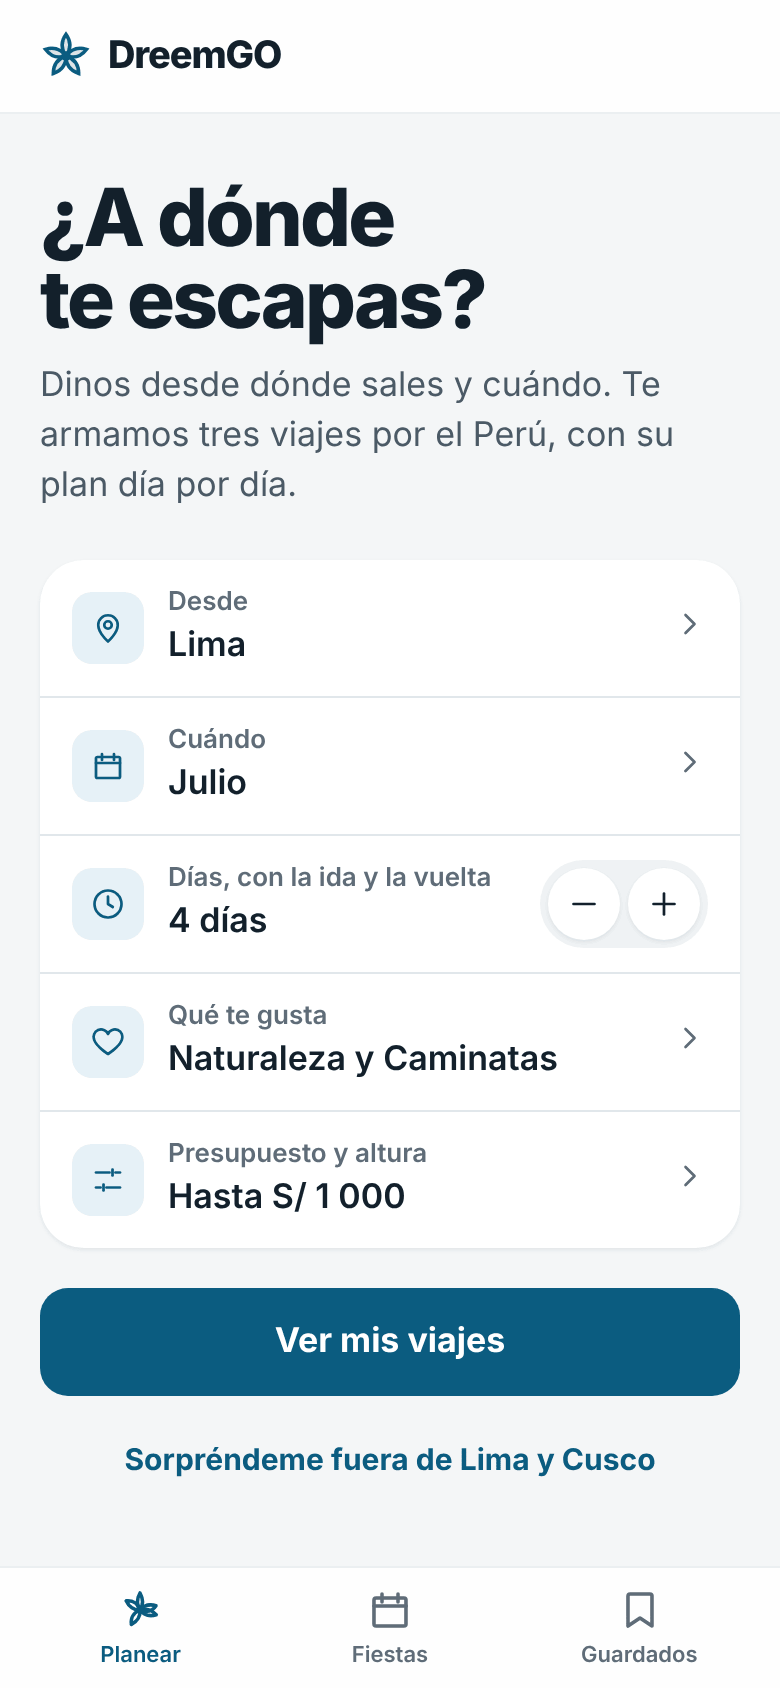
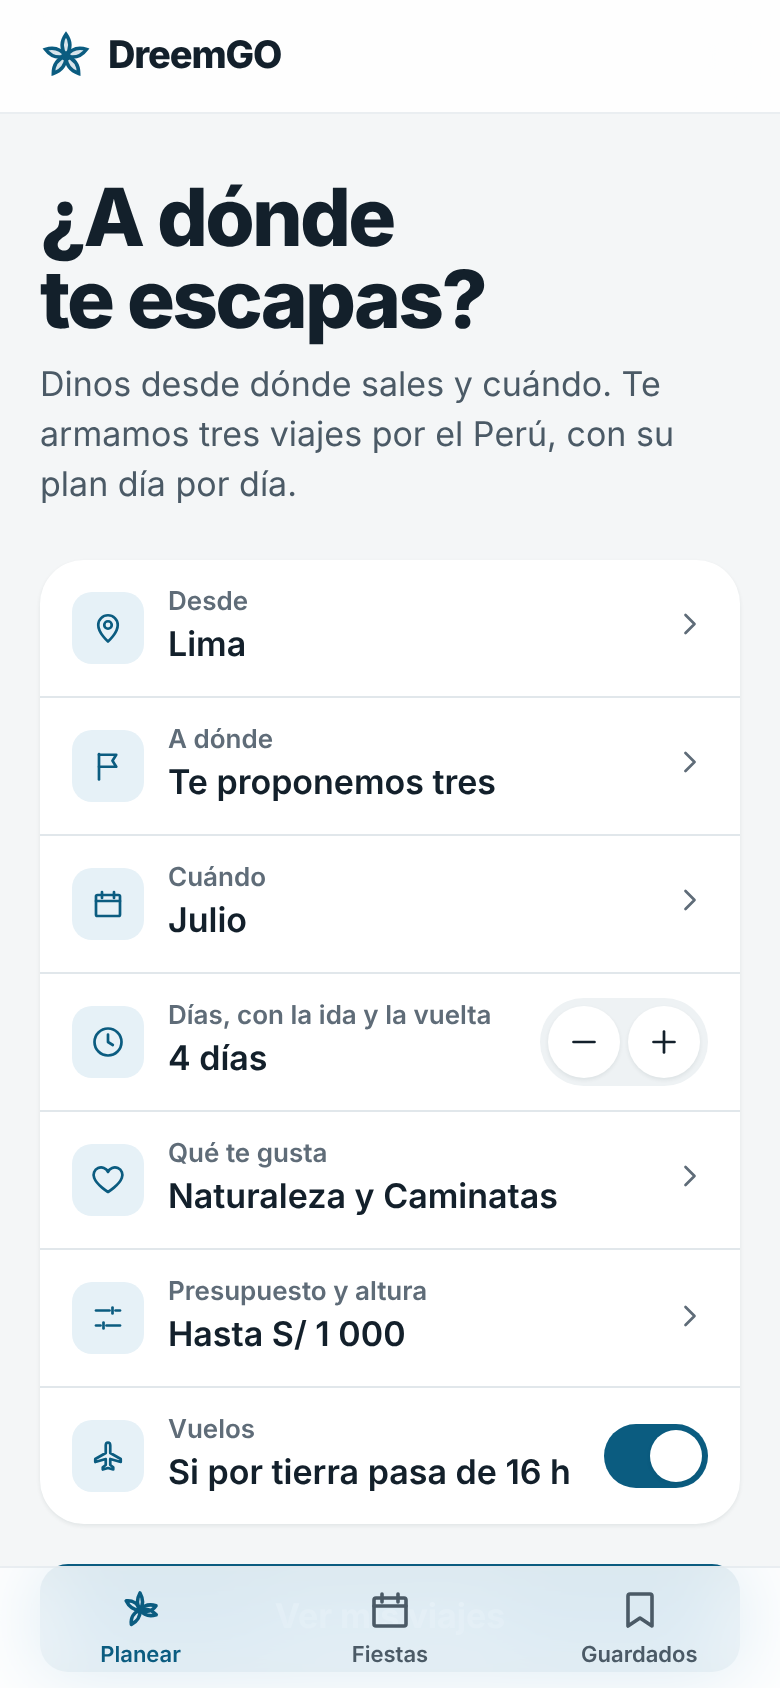
docs(week10): las capturas al 20 de octubre

diff --git a/deliveries/week10/capturas/README.md b/deliveries/week10/capturas/README.md
@@ -1,25 +1,31 @@
 # Capturas de la demostración
 
-La app compilada igual que la publicada, contra el API con los datos `2026.10.4`, el 13 de octubre de 2026. Las de celular son de 390 × 844 puntos y las de escritorio, de 1 440 × 900. Las fotos son de Wikimedia Commons, con su autor y su licencia a la vista.
+La app compilada igual que la publicada, contra el API con los datos `2026.10.8` y el contrato 1.7, el 20 de octubre de 2026. Las de celular son de 390 × 844 puntos y las de escritorio, de 1 440 × 900. Las fotos son de Wikimedia Commons, con su autor y su licencia a la vista.
 
 | Archivo | Qué muestra |
 |---|---|
-| `01_consulta_celular.png` | El formulario: desde Lima, 4 días en julio, naturaleza y caminatas, hasta S/ 1 000 |
-| `02_tres_viajes_celular.png` | Los tres viajes de esa consulta: Huaraz, Huacho y La Merced |
-| `03_viaje_huaraz_celular.png` | El viaje a Huaraz: su foto, su costo, las horas desde Lima, el clima de julio y por qué conviene |
-| `04_plan_y_mapa_celular.png` | El plan día por día con su mapa: un pétalo por día |
-| `05_costo_y_clima_celular.png` | El costo como banda, con su desglose, y el clima del mes |
-| `06_hoja_de_un_lugar_celular.png` | La hoja de un lugar, con su foto y el enlace a su ficha oficial |
-| `07_tema_oscuro_celular.png` | El tema oscuro: desde el Cusco, 2 días en junio |
-| `08_como_funciona_celular.png` | «Cómo funciona»: de dónde salen los datos y cómo decide el motor |
-| `09_lima_julio_escritorio.png` | En escritorio, la consulta de julio |
-| `10_lima_febrero_escritorio.png` | La misma consulta en febrero: Huaraz ya no sale, porque es temporada de lluvias |
-| `11_cusco_junio_escritorio.png` | Desde el Cusco, 2 días en junio: Urubamba, Machupicchu Pueblo y Abancay |
-| `12_machu_picchu_escritorio.png` | El viaje a Machupicchu Pueblo |
-| `13_machu_picchu_plan_escritorio.png` | Su plan, su costo y su mapa |
-| `14_zona_huaraz_escritorio.png` | La zona de Huaraz: sus lugares y su clima de los doce meses |
-| `15_fiestas_escritorio.png` | El calendario de fiestas de julio |
-| `16_publicar_escritorio.png` | Un municipio publica un evento, con su lugar marcado en el mapa |
-| `17_evento_publicado_escritorio.png` | El evento publicado, como lo ve el viajero |
+| `01_consulta_celular.png` | El formulario: desde Lima, 4 días en julio, naturaleza y caminatas, hasta S/ 1 000. Con «A dónde» y los vuelos |
+| `02_tres_viajes_celular.png` | Los tres viajes de esa consulta: Íllimo y Huaraz, en bus de noche, y Huacho |
+| `03_viaje_huaraz_celular.png` | El viaje a Huaraz: su foto, su costo, las horas desde Lima en bus de noche, el clima de julio y por qué conviene |
+| `04_plan_y_mapa_celular.png` | El plan día por día con su mapa: un pétalo por día, y el día 1, tranquilo para acostumbrarse a la altura |
+| `05_dia_tranquilo_celular.png` | El día 1: el bus de noche que llega a las 5:55, el día tranquilo y sus primeras visitas |
+| `06_noche_de_estrellas_celular.png` | Una noche de estrellas en el Cusco, con la luna de esa noche, y el almuerzo de ese día |
+| `07_costo_y_clima_celular.png` | El costo como banda, con su desglose, y el clima del mes |
+| `08_hoja_de_un_lugar_celular.png` | La hoja de un lugar, con su foto, su entrada y el enlace a su ficha oficial |
+| `09_a_donde_celular.png` | «A dónde»: buscar Machu Picchu entre las zonas |
+| `10_asi_no_cabe_celular.png` | Machu Picchu en 2 días no cabe: el motor dice por qué y con qué cambio sale |
+| `11_machu_picchu_celular.png` | Con 4 días, el viaje a Machupicchu Pueblo, en avión y en tren |
+| `12_tema_oscuro_celular.png` | El tema oscuro: desde Lima, 6 días en julio, con vuelo al Cusco |
+| `13_como_funciona_celular.png` | «Cómo funciona»: de dónde salen los datos y cómo decide el motor |
+| `14_lima_julio_escritorio.png` | En escritorio, la consulta de julio |
+| `15_lima_febrero_escritorio.png` | La misma consulta en febrero: Huaraz ya no sale, porque es temporada de lluvias |
+| `16_lima_seis_dias_escritorio.png` | Desde Lima, 6 días en julio: el Cusco, Arequipa y Puno, en avión |
+| `17_machu_picchu_escritorio.png` | El viaje a Machupicchu Pueblo desde Lima, elegido con «A dónde» |
+| `18_machu_picchu_plan_escritorio.png` | Su plan, su costo y su mapa |
+| `19_zona_huaraz_escritorio.png` | La zona de Huaraz: sus lugares y su clima de los doce meses |
+| `20_noche_de_la_zona_escritorio.png` | La noche de Huaraz: dónde salir, desde dónde ver estrellas y cuántas noches salen despejadas cada mes |
+| `21_fiestas_escritorio.png` | El calendario de fiestas de julio, con «Ir a esta fiesta» |
+| `22_publicar_escritorio.png` | Un municipio publica un evento, con su lugar marcado en el mapa |
+| `23_evento_publicado_escritorio.png` | El evento publicado, como lo ve el viajero |
 
 El evento de las dos últimas es de prueba: se publicó en un API local, no en el publicado.
